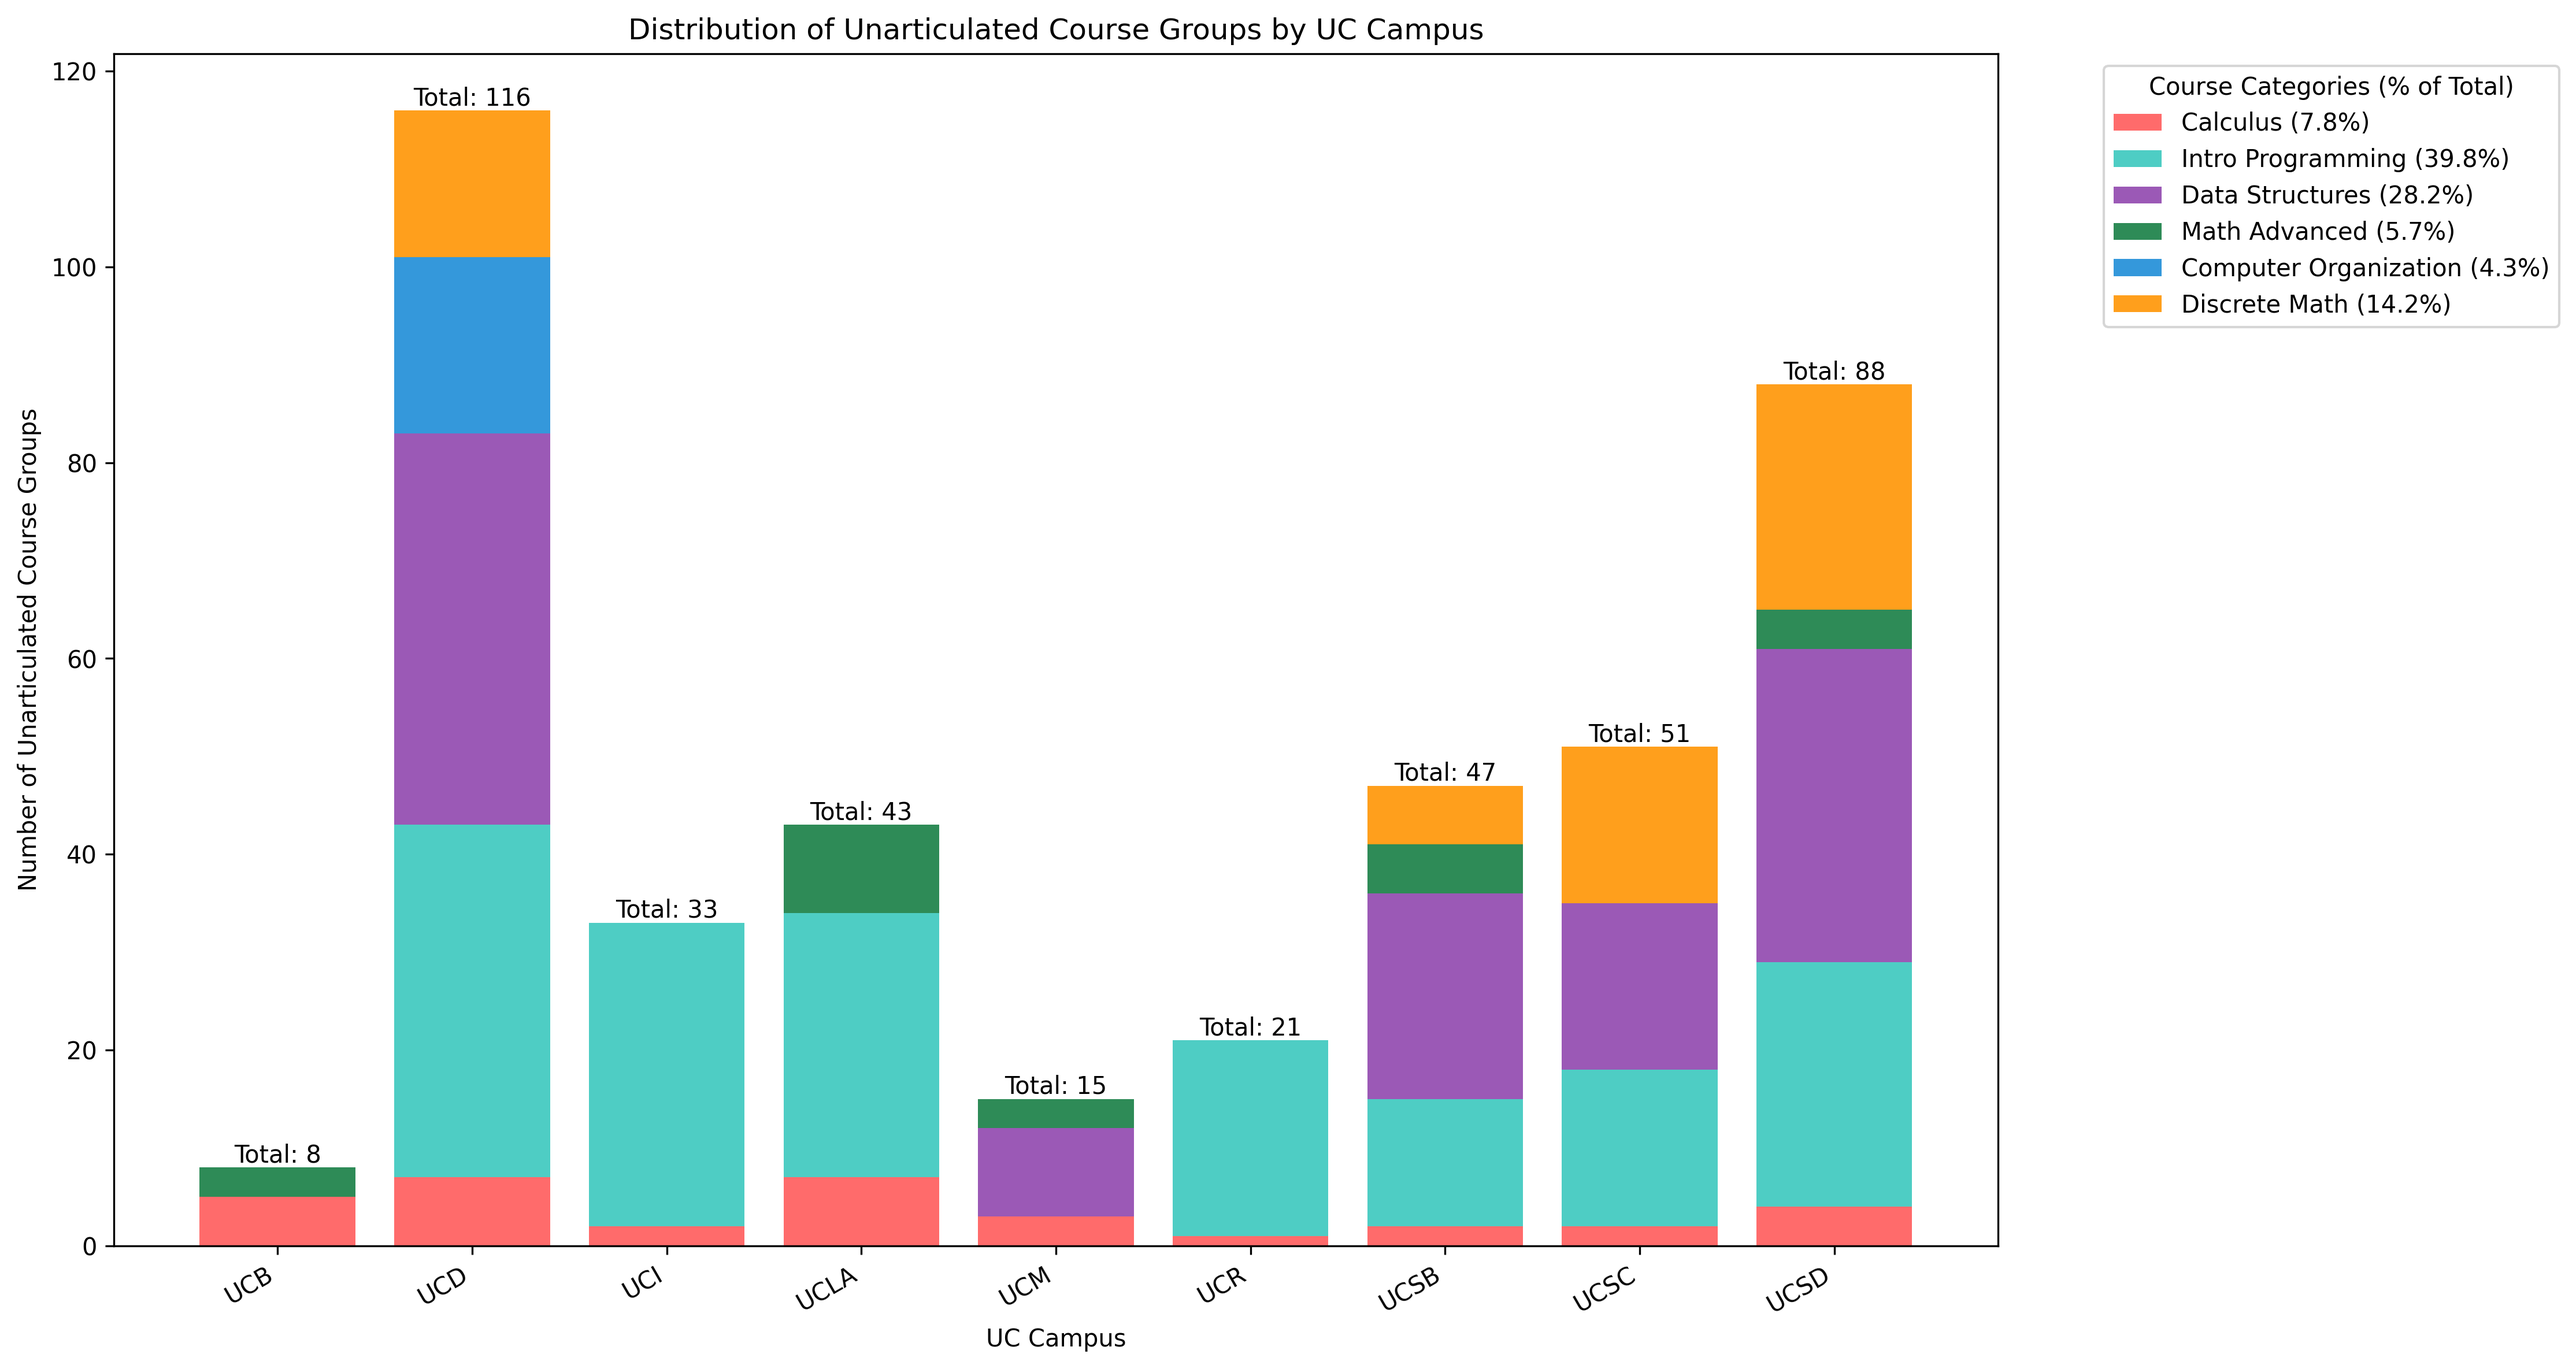
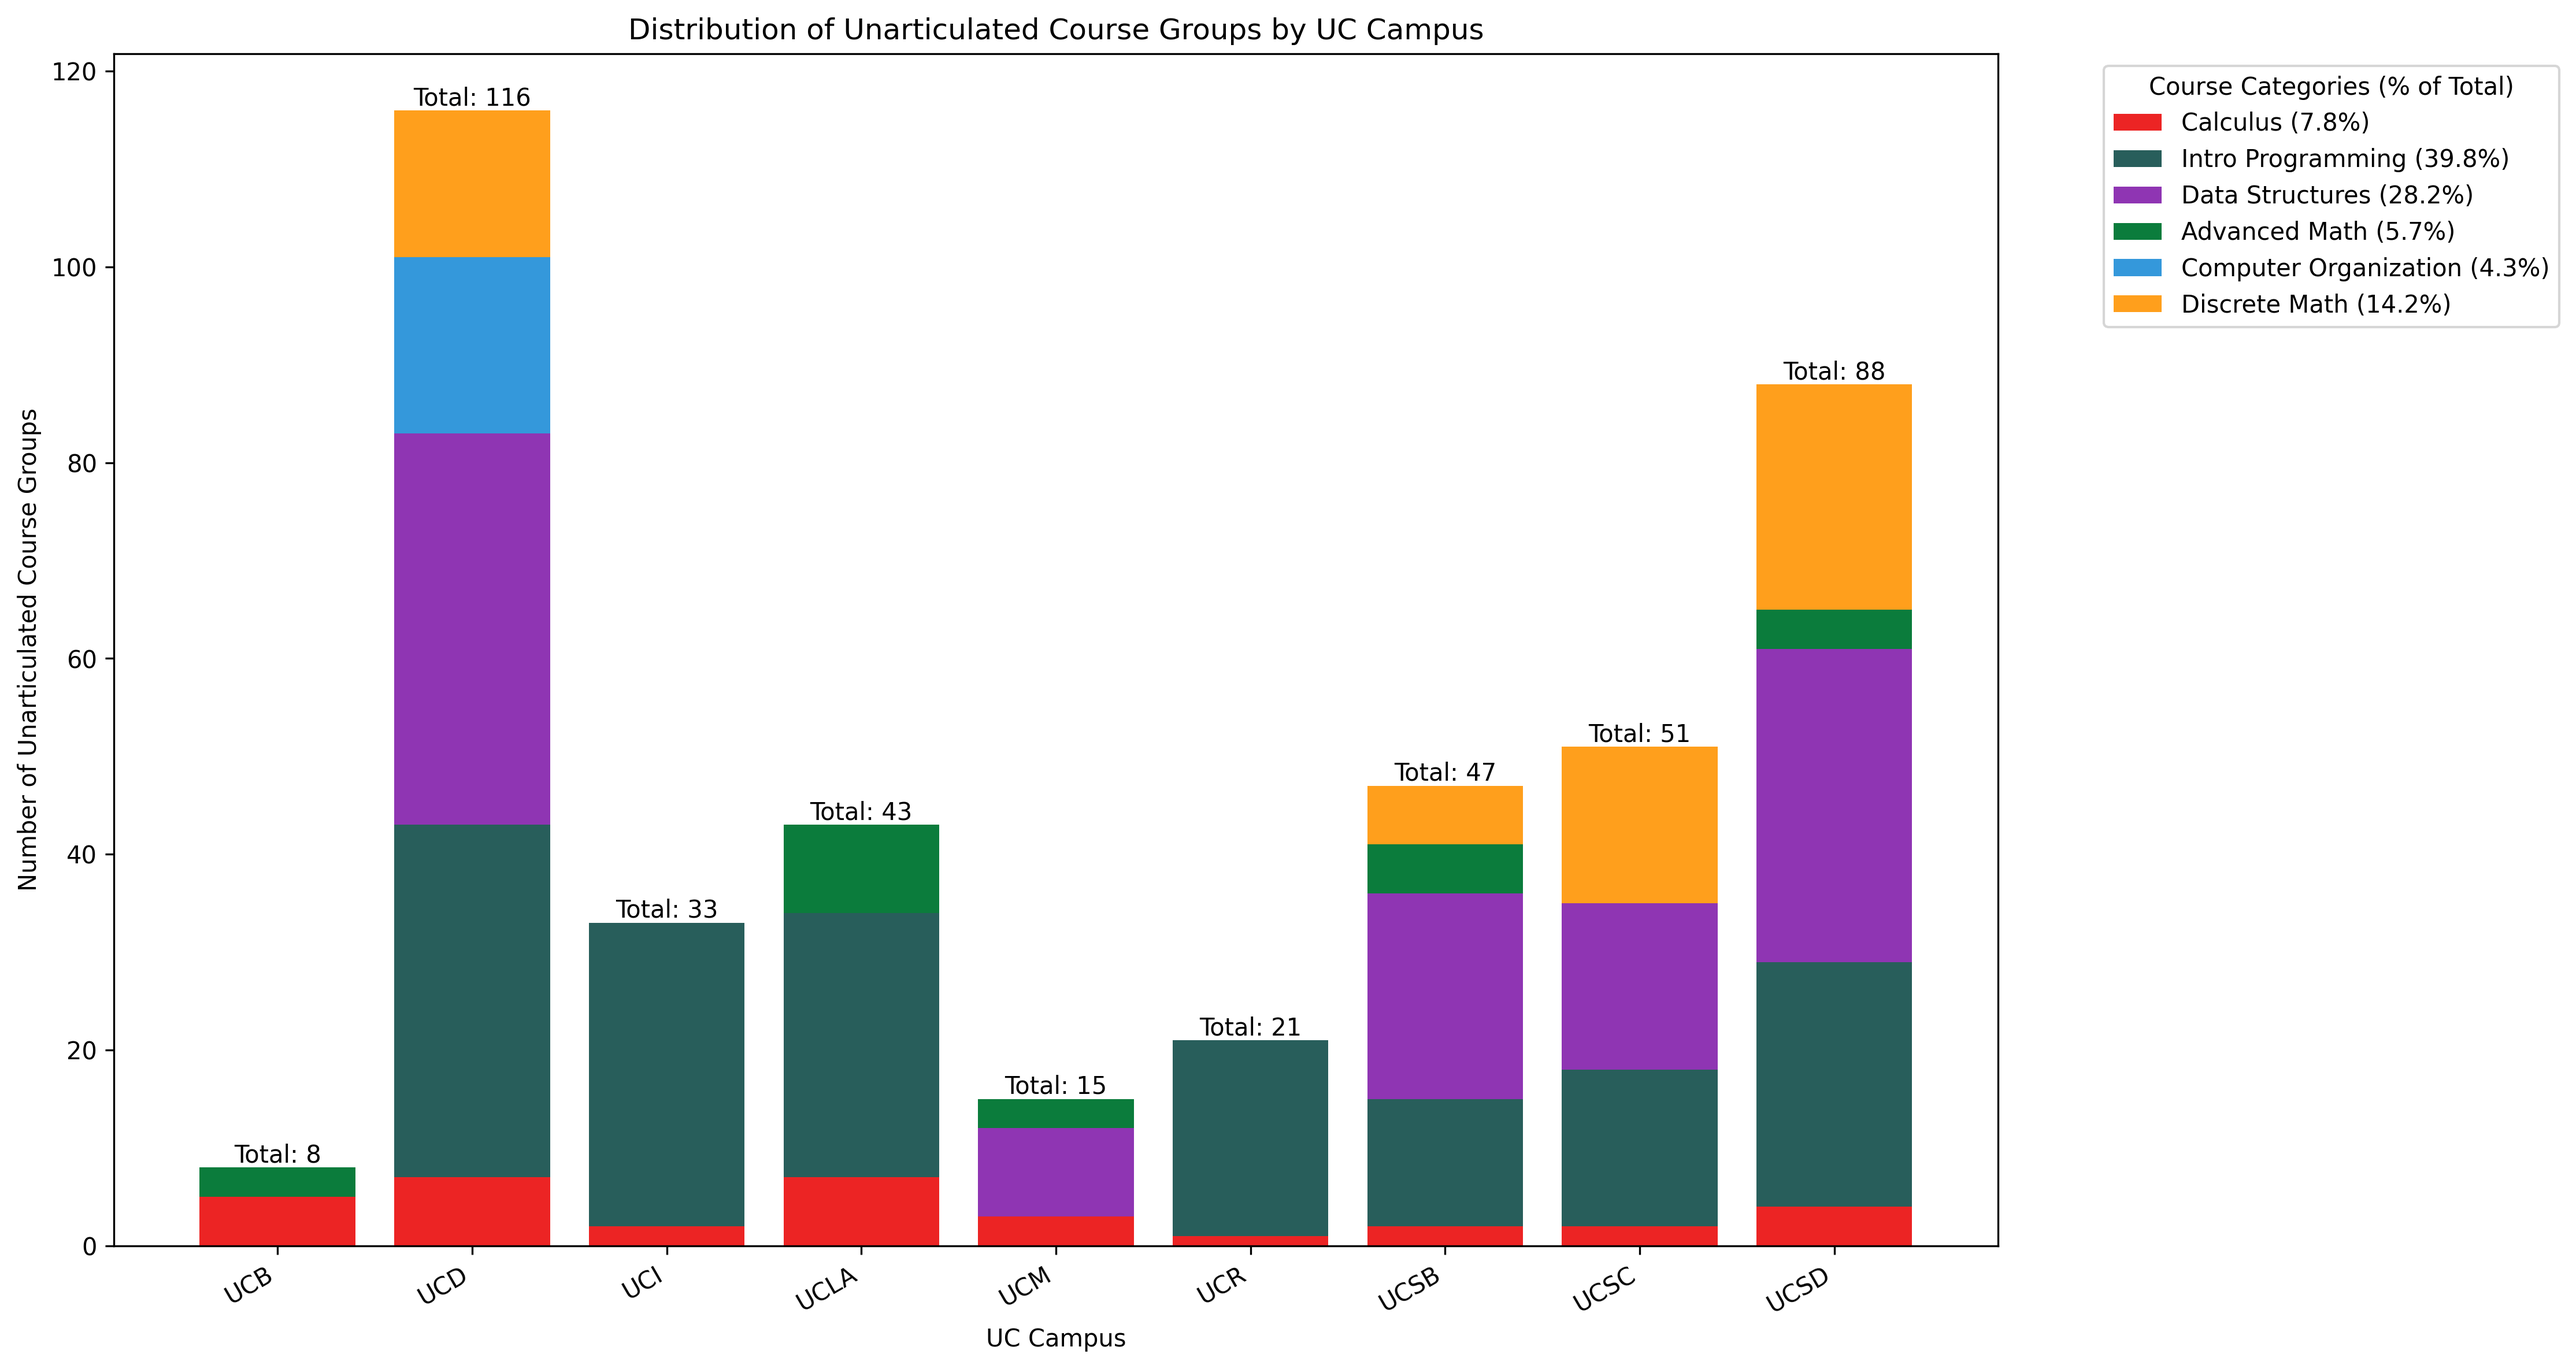
added two colored heat maps divided by course groups

Changed region(s): [[0.0624, 0.3124, 0.7485, 0.9371], [0.8109, 0.0625, 0.9044, 0.1874]]

diff --git a/question_2-3/district-level/detailed_district_least_options.py b/question_2-3/district-level/detailed_district_least_options.py
@@ -3,6 +3,144 @@ import matplotlib.pyplot as plt
 import numpy as np
 import seaborn as sns
 import os
+import matplotlib.patches as mpatches
+import matplotlib.colors as mcolors
+
+from district_indices import DISTRICT_INDICES
+
+# Define color groups for related courses
+COURSE_GROUPS = {
+    'Calculus':             {'color': "#EC2424", 'patterns': ['calc']},
+    'Intro Programming':    {'color': "#285E5B", 'patterns': ['intro', 'program']},
+    'Data Structures':      {'color': "#8F35B3", 'patterns': ['data', 'struct']},
+    'Advanced Math':        {'color': "#0B7C3C", 'patterns': ['linear', 'differential']},
+    'Computer Organization':    {'color': '#3498DB', 'patterns': ['organ', 'system', 'computer']},
+    'Discrete Math':        {'color': '#FF9F1C', 'patterns': ['discrete']},
+}
+
+COURSE_CATEGORIES = list(COURSE_GROUPS.keys())
+
+
+def create_course_heatmap(data, directory):
+    """
+    Draw a grid of (district × UC) cells, each divided into
+    six vertical slices (one per COURSE_CATEGORIES):
+      • white if that UC never requires that category in this district
+      • pale  if it is required & fully articulated (light version of category color)
+      • solid if it is required but *not* fully articulated (full category color)
+    Borders around each full cell are drawn in black for clarity.
+    """
+    import pandas as pd
+    import os
+    import numpy as np
+    import matplotlib.pyplot as plt
+    import matplotlib.colors as mcolors
+
+    # Helper to lighten a color
+    def light(color, amount=0.8):
+        """Return a lighter shade of the given color by mixing it with white."""
+        rgb = np.array(mcolors.to_rgb(color))
+        white = np.ones_like(rgb)
+        mixed = rgb + (white - rgb) * amount
+        return tuple(mixed)
+
+    # 1) Build missing_lookup keyed by (district_idx, UC)
+    missing_lookup = {}
+    for _, row in data.iterrows():
+        d_idx = row['District']
+        uc = row['UC Name']
+        raw = row['unarticulated_courses']
+        gids = set()
+        if isinstance(raw, str) and raw.strip():
+            for line in raw.split("\n"):
+                gid = line.split(":", 1)[0].strip()
+                gids.add(gid)
+        missing_lookup.setdefault((d_idx, uc), set()).update(gids)
+
+    # 2) Build required_lookup keyed by (district_idx, UC)
+    required_lookup = {}
+    for fn in os.listdir(directory):
+        if not fn.endswith('.csv'):
+            continue
+        dn = fn[:-4].replace('_', ' ')
+        d_idx = DISTRICT_INDICES.get(dn)
+        if d_idx is None:
+            continue
+        df = pd.read_csv(os.path.join(directory, fn))
+        for uc, grp in df.groupby('UC Name')['Group ID']:
+            required_lookup.setdefault((d_idx, uc), set()).update(grp.unique())
+
+    # 3) Map raw Group ID -> category
+    group_to_cat = {}
+    for key in set().union(*required_lookup.values(), *missing_lookup.values()):
+        low = key.lower()
+        matched = None
+        for cat, info in COURSE_GROUPS.items():
+            if any(p in low for p in info['patterns']):
+                matched = cat
+                break
+        group_to_cat[key] = matched
+
+    # 4) Setup plot
+    districts = sorted(data['District'].unique())
+    ucs = sorted(data['UC Name'].unique())
+    nD, nU = len(districts), len(ucs)
+    fig, ax = plt.subplots(figsize=(nU * 1.2, nD * 0.6))
+    ax.set_xlim(0, nU)
+    ax.set_ylim(0, nD)
+    ax.invert_yaxis()
+    slice_w = 1.0 / len(COURSE_CATEGORIES)
+
+    # 5) Draw vertical slices and cell borders
+    for i, d_idx in enumerate(districts):
+        for j, uc in enumerate(ucs):
+            reqs = required_lookup.get((d_idx, uc), set())
+            missing = missing_lookup.get((d_idx, uc), set())
+            # draw each category slice
+            for k, cat in enumerate(COURSE_CATEGORIES):
+                gids_req = {g for g in reqs if group_to_cat.get(g) == cat}
+                base_color = COURSE_GROUPS[cat]['color']
+                if not gids_req:
+                    face = 'white'
+                elif gids_req & missing:
+                    face = base_color  # solid: full category color
+                else:
+                    face = light(base_color, amount=0.5)  # pale: lightened color
+                x0 = j + k * slice_w
+                rect = plt.Rectangle(
+                    (x0, i), slice_w, 1,
+                    facecolor=face,
+                    edgecolor='gray', linewidth=0.5
+                )
+                ax.add_patch(rect)
+            # draw a bold border around the full cell
+            border = plt.Rectangle(
+                (j, i), 1, 1,
+                fill=False,
+                edgecolor='black', linewidth=1.5
+            )
+            ax.add_patch(border)
+
+    # 6) Final formatting
+    ax.set_xticks(np.arange(nU) + 0.5)
+    ax.set_xticklabels(ucs, rotation=45, ha='right')
+    ax.set_yticks(np.arange(nD) + 0.5)
+    ax.set_yticklabels(districts)
+    ax.set_xlabel('UC Campus')
+    ax.set_ylabel('Community College District')
+    ax.set_title(
+        'Per-District UC Transfer by Course Group\n'
+        '(vertical slices, colored by category)'
+    )
+    plt.tight_layout()
+
+    out = os.path.join(
+        os.path.dirname(os.path.abspath(__file__)),
+        'course_transfer_heatmap_colored.png'
+    )
+    plt.savefig(out, dpi=300, bbox_inches='tight')
+    plt.close()
+
 
 def can_transfer_to_uc(df, uc_name):
     # Get all requirements for this UC
@@ -132,7 +270,7 @@ def analyze_all_districts(directory):
             district_name, transfer_counts = count_transfer_options(file_path)
             
             # Add district name to each row
-            transfer_counts['District'] = district_name
+            transfer_counts['District'] = DISTRICT_INDICES.get(district_name)
             all_data.append(transfer_counts)
     
     # Combine all data
@@ -219,42 +357,15 @@ def create_group_frequency_graph(data):
         all_groups.update(counts.keys())
     all_groups = sorted(list(all_groups))
     
-    # Define color groups for related courses
-    color_groups = {
-        'calculus': {
-            'color': '#FF6B6B',  # Red
-            'patterns': ['calc', 'vector', 'multivar']
-        },
-        'intro_programming': {
-            'color': '#4ECDC4',  # Teal
-            'patterns': ['intro', 'comp', 'problem']
-        },
-        'data_structures': {
-            'color': '#9B59B6',  # Purple
-            'patterns': ['data', 'struct', 'algorithm']
-        },
-        'math_advanced': {
-            'color': '#2E8B57',  # Sea Green (darker)
-            'patterns': ['linear', 'differential']
-        },
-        'computer_organization': {
-            'color': '#3498DB',  # Blue
-            'patterns': ['organ', 'system', 'computer']
-        },
-        'discrete_math': {
-            'color': '#FF9F1C',  # Orange
-            'patterns': ['discrete']
-        },
-    }
     
     # Group courses by their color category
-    color_grouped_courses = {category: [] for category in color_groups.keys()}
+    color_grouped_courses = {category: [] for category in COURSE_GROUPS.keys()}
     ungrouped = []
     
     for group in all_groups:
         group_lower = group.lower()
         assigned = False
-        for category, info in color_groups.items():
+        for category, info in COURSE_GROUPS.items():
             if any(pattern in group_lower for pattern in info['patterns']):
                 color_grouped_courses[category].append(group)
                 assigned = True
@@ -292,7 +403,7 @@ def create_group_frequency_graph(data):
     for category, groups in color_grouped_courses.items():
         if not groups:  # Skip empty categories
             continue
-        color = color_groups[category]['color']
+        color = COURSE_GROUPS[category]['color']
         category_total = np.zeros(len(uc_names))
         
         # Combine all groups in the category
@@ -355,23 +466,7 @@ def main():
     # Create visualizations
     create_heatmap(combined_data)
     create_group_frequency_graph(combined_data)
-    
-    # Find district with fewest options
-    # total_options = combined_data.groupby('District')['counts'].sum()
-    # min_district = total_options.idxmin()
-    # min_count = total_options.min()
-    
-    # print(f"\nDistrict with fewest valid UC transfer paths: {min_district}")
-    # print(f"Number of UCs with all courses articulated: {min_count}")
-    
-    # # Show which UCs have all courses articulated and which courses are not articulated
-    # district_data = combined_data[combined_data['District'] == min_district]
-    # print(f"\nDetailed transfer information for {min_district}:")
-    # for _, row in district_data.iterrows():
-    #     if row['counts'] == 1:
-    #         print(f"- {row['UC Name']}: All courses articulated")
-    #     else:
-    #         print(f"- {row['UC Name']}: Missing articulation for {row['unarticulated_courses']}")
+    create_course_heatmap(combined_data, directory)
 
 if __name__ == "__main__":
     main()
